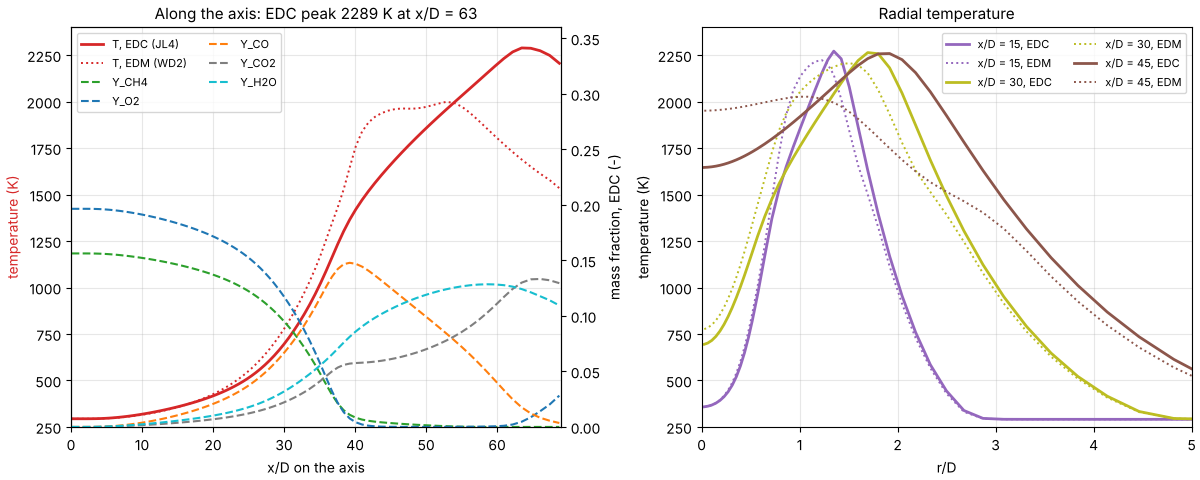
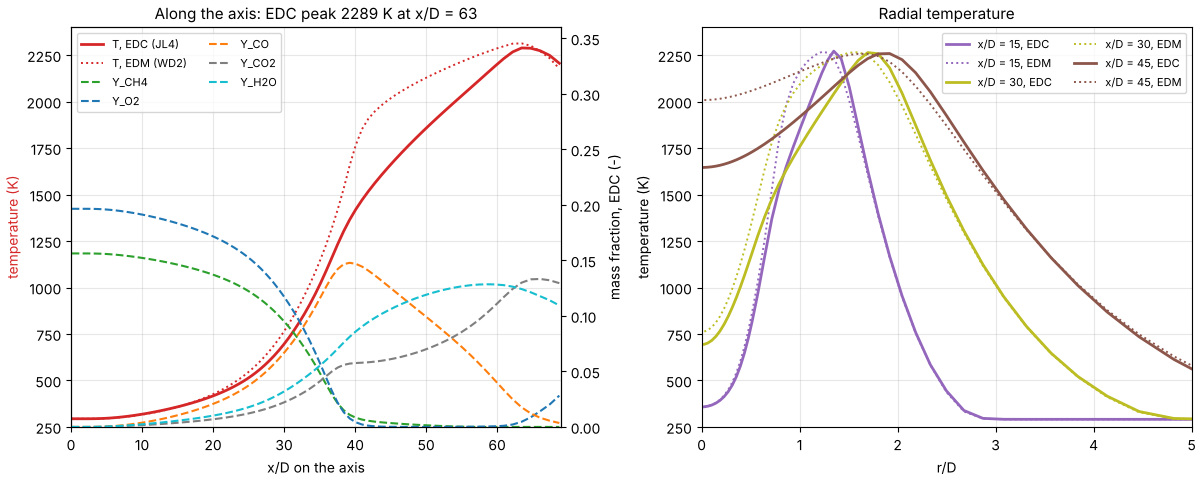
SF3: EDM caps a reaction and its exact reverse as a pair; EDM case relaxation 0.2, docs and images
Claude-Session: https://claude.ai/code/session_012imjwnMqtcjVo2xP9ySuwA

diff --git a/crates/foehncraft-flow/src/chemistry/edc.rs b/crates/foehncraft-flow/src/chemistry/edc.rs
@@ -53,7 +53,13 @@
 //! A = 4, B = 0.5. With `kinetic_limit` the rate is the smaller of q_mix,j
 //! and the rate of the mechanism q_kin,j (the kinetics hold the reactions
 //! back where the gas is cold, as at the nozzle); without it, a reaction
-//! runs wherever its reactants and products meet.
+//! runs wherever its reactants and products meet. A reaction and its exact
+//! reverse (the CO oxidation and the CO₂ dissociation of Westbrook & Dryer)
+//! are taken as a pair: the mixing rate caps their net kinetic rate in its
+//! direction. Limiting each of the two alone lets a fast dissociation undo
+//! a mixing-limited oxidation, and a jet flame then kept CO at the level of
+//! CO₂ and released heat with the wrong sign where its hot pilot gas met
+//! slow mixing.
 
 use super::mechanism::bad;
 use anyhow::Result;
@@ -284,43 +290,105 @@ pub fn edm_rates(
     if !(eps_over_k > 0.0) || !(t > 0.0) {
         return;
     }
-    for (j, r) in prog.reactions.iter().enumerate() {
-        let terms = &prog.terms[r.terms[0] as usize..r.terms[1] as usize];
-        // the mixing rate: reactants, then the product term
+    let nr = prog.reactions.len();
+    let terms_of = |j: usize| {
+        let r = &prog.reactions[j];
+        &prog.terms[r.terms[0] as usize..r.terms[1] as usize]
+    };
+    // the mixing rate of reaction j in its own direction (reactants, then
+    // the product term), or with `back` in the opposite one
+    let mixing = |j: usize, back: bool| {
         let mut lim = f64::INFINITY;
         let (mut yp, mut wp) = (0.0, 0.0);
-        for s in terms {
+        for s in terms_of(j) {
             let k = s.species as usize;
-            if s.reactant > 0.0 {
-                lim = lim.min(c[k].max(0.0) / s.reactant);
+            let (nr_, np_) = if back {
+                (s.product, s.reactant)
+            } else {
+                (s.reactant, s.product)
+            };
+            if nr_ > 0.0 {
+                lim = lim.min(c[k].max(0.0) / nr_);
             }
-            if s.product > 0.0 {
+            if np_ > 0.0 {
                 yp += y[k].max(0.0);
-                wp += s.product * prog.species[k].molar_mass;
+                wp += np_ * prog.species[k].molar_mass;
             }
         }
         if wp > 0.0 {
             lim = lim.min(e.b * rho * yp / wp);
         }
-        if !lim.is_finite() {
-            continue;
+        if lim.is_finite() {
+            e.a * eps_over_k * lim
+        } else {
+            0.0
         }
-        let mut q = e.a * eps_over_k * lim;
-        if e.kinetic_limit {
-            // the reaction alone: its production rates, divided by the net
-            // coefficient of one of its species
-            let one = kc::Program {
-                reactions: &prog.reactions[j..j + 1],
-                ..*prog
-            };
-            kc::rates(&one, t, c, w1, None, None, rw);
-            let kin = terms
-                .iter()
-                .find(|s| s.product != s.reactant)
-                .map_or(0.0, |s| w1[s.species as usize] / (s.product - s.reactant));
-            q = q.min(kin.max(0.0));
-        }
-        for s in terms {
+    };
+    // the rate of the mechanism of reaction j alone (mol/(m³ s)): its
+    // production rates, divided by the net coefficient of one of its species
+    let mut kinetic = |j: usize| {
+        let one = kc::Program {
+            reactions: &prog.reactions[j..j + 1],
+            ..*prog
+        };
+        kc::rates(&one, t, c, w1, None, None, rw);
+        terms_of(j)
+            .iter()
+            .find(|s| s.product != s.reactant)
+            .map_or(0.0, |s| w1[s.species as usize] / (s.product - s.reactant))
+            .max(0.0)
+    };
+    // a reaction and its exact reverse (the CO₂ dissociation of
+    // Westbrook & Dryer) form a pair: with the kinetic limit the mixing
+    // rate caps their net rate, in the direction of the kinetics, so that
+    // the pair keeps the equilibrium of its kinetics where mixing is fast
+    // and a mixing-limited forward step is not undone by an unlimited
+    // reverse one
+    let reverse_of = |j: usize| {
+        (0..nr).find(|&i| {
+            i != j && {
+                let (a, b) = (terms_of(j), terms_of(i));
+                let net = |t: &[kc::Term]| -> Vec<(u32, f64, f64)> {
+                    let mut v: Vec<(u32, f64, f64)> = t
+                        .iter()
+                        .filter(|s| s.reactant != 0.0 || s.product != 0.0)
+                        .map(|s| (s.species, s.reactant, s.product))
+                        .collect();
+                    v.sort_by_key(|x| x.0);
+                    v
+                };
+                let (na, nb) = (net(a), net(b));
+                na.len() == nb.len()
+                    && na
+                        .iter()
+                        .zip(&nb)
+                        .all(|(x, z)| x.0 == z.0 && x.1 == z.2 && x.2 == z.1)
+            }
+        })
+    };
+    for j in 0..nr {
+        let pair = if e.kinetic_limit { reverse_of(j) } else { None };
+        let q = match pair {
+            // the pair is done with its first reaction
+            Some(i) if i < j => continue,
+            Some(i) => {
+                let net = kinetic(j) - kinetic(i);
+                if net >= 0.0 {
+                    net.min(mixing(j, false))
+                } else {
+                    -(-net).min(mixing(j, true))
+                }
+            }
+            None => {
+                let q = mixing(j, false);
+                if e.kinetic_limit {
+                    q.min(kinetic(j))
+                } else {
+                    q
+                }
+            }
+        };
+        for s in terms_of(j) {
             wdot[s.species as usize] += (s.product - s.reactant) * q;
         }
     }
@@ -365,8 +433,8 @@ mod tests {
 
     /// The eddy dissipation model of the two-step mechanism: the fuel
     /// step is limited by the scarcer of fuel and oxygen, the products
-    /// hold it back where there are none, and every rate conserves the
-    /// elements and the mass.
+    /// hold it back where there are none, the CO/CO₂ pair is capped by
+    /// mixing as a pair, and every rate conserves the mass.
     #[test]
     fn edm_rates_are_mixing_limited_and_conserve_mass() {
         let m = Mechanism::load("westbrook-dryer-2", None).unwrap();
@@ -420,6 +488,23 @@ mod tests {
         let kin = EdmSection::default();
         edm_rates(&prog, &kin, p, 300.0, &y, 50.0, &mut w, &mut work);
         assert!(-w[ix("CH4")] < 1e-12 * q1);
+        // the CO oxidation and the CO₂ dissociation are a pair: in burnt
+        // gas without CO and with slow mixing the net dissociation is held
+        // to the mixing rate of CO₂ towards CO and O₂ (its products, O₂,
+        // are there), not to its Arrhenius rate alone
+        let mut burnt = vec![0.0; n];
+        burnt[ix("O2")] = 0.05;
+        burnt[ix("CO2")] = 0.12;
+        burnt[ix("H2O")] = 0.10;
+        burnt[ix("N2")] = 1.0 - 0.27;
+        let slow = 1.0;
+        edm_rates(&prog, &kin, p, 2000.0, &burnt, slow, &mut w, &mut work);
+        let (rho_b, _) = kc::concentrations(prog.species, p, 2000.0, &burnt, &mut c);
+        let wo2 = prog.species[ix("O2")].molar_mass;
+        let cap = 4.0 * slow * c[ix("CO2")].min(0.5 * rho_b * burnt[ix("O2")] / (wco + 0.5 * wo2));
+        assert!(w[ix("CO")] > 0.0 && w[ix("CO")] <= cap * (1.0 + 1e-12));
+        let mass: f64 = (0..n).map(|k| prog.species[k].molar_mass * w[k]).sum();
+        assert!(mass.abs() < 1e-12 * cap * wco);
         // reversible reactions are refused
         let jl = Mechanism::load("jones-lindstedt-4", None).unwrap();
         assert!(kin.check(&jl.program(), "jones-lindstedt-4").is_err());

diff --git a/docs/requirements.md b/docs/requirements.md
@@ -366,7 +366,7 @@ Multi-physics topics (maintainer's order of 2026-11-16, `multiphysics-architectu
 | ID | Feature | Notes |
 |----|---------|-------|
 | L1 | Energy equation and conjugate heat transfer | Multi-region meshes (fluid and solid) must not be blocked by the mesh data structure. Fluid and solid regions share one temperature equation on one equation domain (D112), so conjugate heat transfer is one matrix, exactly conservative, not two coupled solvers. Electric conduction and Joule heating (L27) come with it *2026-11-17 (O18):* specified as stage 7 of milestone 1 with buoyancy and low-Mach variable density, D150–D164 ([stage 7 page](requirements/stage7-energy-buoyancy-cht.md)); L27 then follows right after milestone 1 |
-| L2 | Species transport and reacting flows | Low-Mach variable density (D17) and stiff chemistry integration. **Species transport implemented 2026-11-24 (steam furnace stage SF1, #278):** `[species]` with the GRI-Mech 3.0 species, N − 1 mass fractions on the scalar equation with the closure species, Schmidt or Lewis diffusion, density from the mixture's molar mass (D151), mixture c_p, λ, μ from NASA-7 and kinetic theory, species and element accounts in the ledger (D119). **Gas-phase chemistry implemented 2026-11-25 (SF2a, #289):** mechanisms, the stiff 0D constant-pressure reactor and the chemical equilibrium (`foehn chemistry reactor`, `foehn chemistry equilibrium`, D120). **Chemistry in the cells of a transient laminar flow implemented 2026-11-25 (SF2b, #298).** **Turbulent flames implemented 2026-11-28 (SF3, #351), D349:** `[chemistry] interaction` = `laminar` (default), `edc` or `edm`. The eddy dissipation concept (Magnussen 2005: γ* = γ_λ², C_γ 2.1377, C_τ 0.4083; `version = "1981"`: γ_λ³; γ* held at `max_fine_fraction` 0.75) integrates the fine structures of each cell over its own τ* with the SF2 kernel (a per-cell interval of the kernel and its PTX entry); the eddy dissipation model (Magnussen & Hjertager 1977, A 4, B 0.5, Arrhenius cap) needs reactions in one direction. Transient: the exact increment (1 − e^(−κΔt))(Y* − Y), element-conserving. Steady: rates renewed every `update_every` iterations, the rate at the current state and its slope relaxed, sinks on the diagonal, the heat release linear in the species and taken at each energy refresh (a held heat ran away above 4000 K). CHM004 counts failed fine-structure cells (they keep their last rates). Not yet: partially stirred reactor and local constants (Parente 2016), flamelet tables, the bluff-body flame, the comparison with the TNF data, ranks |
+| L2 | Species transport and reacting flows | Low-Mach variable density (D17) and stiff chemistry integration. **Species transport implemented 2026-11-24 (steam furnace stage SF1, #278):** `[species]` with the GRI-Mech 3.0 species, N − 1 mass fractions on the scalar equation with the closure species, Schmidt or Lewis diffusion, density from the mixture's molar mass (D151), mixture c_p, λ, μ from NASA-7 and kinetic theory, species and element accounts in the ledger (D119). **Gas-phase chemistry implemented 2026-11-25 (SF2a, #289):** mechanisms, the stiff 0D constant-pressure reactor and the chemical equilibrium (`foehn chemistry reactor`, `foehn chemistry equilibrium`, D120). **Chemistry in the cells of a transient laminar flow implemented 2026-11-25 (SF2b, #298).** **Turbulent flames implemented 2026-11-28 (SF3, #351), D349:** `[chemistry] interaction` = `laminar` (default), `edc` or `edm`. The eddy dissipation concept (Magnussen 2005: γ* = γ_λ², C_γ 2.1377, C_τ 0.4083; `version = "1981"`: γ_λ³; γ* held at `max_fine_fraction` 0.75) integrates the fine structures of each cell over its own τ* with the SF2 kernel (a per-cell interval of the kernel and its PTX entry); the eddy dissipation model (Magnussen & Hjertager 1977, A 4, B 0.5, Arrhenius cap) needs reactions in one direction, and a reaction with its exact reverse is capped by mixing as a pair (net rate). Transient: the exact increment (1 − e^(−κΔt))(Y* − Y), element-conserving. Steady: rates renewed every `update_every` iterations, the rate at the current state and its slope relaxed, sinks on the diagonal, the heat release linear in the species and taken at each energy refresh (a held heat ran away above 4000 K). CHM004 counts failed fine-structure cells (they keep their last rates). Not yet: partially stirred reactor and local constants (Parente 2016), flamelet tables, the bluff-body flame, the comparison with the TNF data, ranks |
 | L3 | Multiphase: VOF and Euler–Euler | Both required. **1D water and steam tube circuits implemented 2026-11-25 (steam furnace stage SF7b, D282 (a), #312):** crate `foehncraft-circuits`, tubes, headers and drums with natural circulation, Friedel and homogeneous friction, drift-flux void, Gnielinski, Chen and Gungor–Winterton, Saha–Zuber with the Levy profile, Bowring CHF and a look-up table reader; the 3D two-fluid and VOF parts of L3 are open **Stage MP1 implemented 2026-11-25 (#317, D293):** isothermal VOF with THINC, CICSAM and upwind, balanced gravity and surface tension, in the shared device kernels; checked by Zalesak's disk, Martin & Moyce's dam break and a static drop. MP2 (energy and phase change, SF14), MP3 (two-fluid core) and MP4 (wall boiling, SF10) follow (steam furnace plan) |
 | L4 | Moving meshes | Moving reference frames (D55) and conformal rotating meshes (D56) are in milestone 1. Sliding meshes in both variants, conformal stepping and non-conformal by imprinting, come with the moving reference frame in stage 6 (D182, 2026-11-19). Later: mixing planes, mesh morphing with the geometric conservation law, overset meshes, rigid-body (6-DOF) motion |
 | L5 | Scale-resolving turbulence: LES, DES | Needs low-dissipation convection schemes and second-order time integration. *2026-11-17 (step 21):* LES is detailed in L39 (numerics), L40 (SGS models), L41 (wall-modelled LES), L42 (synthetic inlet) and L43 (statistics, campaign tier); the hybrid route is SST-based DES (delayed and improved delayed DES) with the blending field of D174; PANS is dropped (X2) |

diff --git a/docs/gallery/species.md b/docs/gallery/species.md
@@ -291,7 +291,7 @@ fuel core, closes over the cold core near x/D 40 and peaks at **2289 K on the
 axis at x/D 63**; CO reaches 15 % by mass in the rich core, where the fine
 structures turn methane into CO and H₂ faster than the oxygen can follow.
 
-<img src="../figures/gallery/jet_flame_edc_profiles.png" alt="Left: along the axis the temperature of the eddy dissipation concept rises slowly from 294 K to 700 K at x/D 30, steeply to 1500 K at x/D 40 and on to its peak of 2289 K at x/D 63; the dotted curve of the eddy dissipation model rises earlier and peaks at about 2000 K at x/D 53. Methane and oxygen fall to zero between x/D 30 and 40, CO peaks at 0.15 at x/D 39, water and CO2 rise behind it. Right: radial temperature at x/D 15, 30 and 45; the concept peaks at 2272, 2264 and 2259 K at r/D 1.35, 1.7 and 1.9, the model at 2223, 2207 and 2027 K slightly closer to the axis." width="1200" height="480">
+<img src="../figures/gallery/jet_flame_edc_profiles.png" alt="Left: along the axis the temperature of the eddy dissipation concept rises slowly from 294 K to 700 K at x/D 30, steeply to 1500 K at x/D 40 and on to its peak of 2289 K at x/D 63; the dotted curve of the eddy dissipation model rises earlier, from x/D 33, and peaks at 2313 K at x/D 63. Methane and oxygen fall to zero between x/D 30 and 40, CO peaks at 0.15 at x/D 39, water and CO2 rise behind it. Right: radial temperature at x/D 15, 30 and 45; the concept peaks at 2272, 2264 and 2259 K at r/D 1.35, 1.7 and 1.9, the model at 2268, 2266 and 2257 K slightly closer to the axis, and at x/D 45 it is 2000 K on the axis against 1650 K." width="1200" height="480">
 
 **Against the measurements.** The temperature of the reaction zone is the
 known weakness of the standard concept in this flame: with the same
@@ -308,10 +308,16 @@ validation, and the bands of the comparison are a gap. The
 `jet_flame_edm_wd2.toml` case burns the same flame with the eddy
 dissipation model and the two-step mechanism of Westbrook & Dryer
 (1981): each reaction at the mixing rate A ε/k (A = 4, B = 0.5, Magnussen
-& Hjertager 1977), capped by its Arrhenius rate. It peaks at 1999 K on
-the axis at x/D 53 and 2223 K in the shear layer at x/D 15, and its heat
-release in the domain is 81 % of the lower heating value of the fuel
-that flows in, against 95 % with the concept.
+& Hjertager 1977), capped by its Arrhenius rate; the CO oxidation and
+the CO₂ dissociation of that mechanism are a pair whose net rate the
+mixing caps. It peaks at 2313 K on the axis at x/D 63 and 2268 K in the
+shear layer at x/D 15: above the equilibrium flame temperature, because
+two global steps that end in CO₂ and water do not dissociate. Its heat
+release in the domain is 94 % of the lower heating value of the fuel
+that flows in, as with the concept (95 %). Limiting the two steps of the
+pair each on its own let the fast dissociation undo the mixing-limited
+oxidation: the first run kept 11 % CO in the flame, and a transient
+start released heat with the wrong sign.
 
 **How it is built.** `interaction = "edc"` adds the fine structures to
 the cell body of SF2b: the integrator takes a residence time per cell
@@ -334,10 +340,17 @@ and gave negative heat release in 14 % of the flame while it formed.
 pilot). The elements close to 3·10⁻⁵ of their inflow. The concept runs
 1500 iterations in about 15 minutes on 4 cores; its residuals level at
 about 3·10⁻⁵ from iteration 1200, while the axis temperature and the
-heat release of iterations 1450, 1600, 1900 and 2500 (two runs) agree to
+heat release of iterations 1450, 1600, 1900 and 2500 (three runs) agree to
 1 K and 10⁻⁴, so the case stops at 1500 and does not require the
-residual tolerance. The eddy dissipation model converges to 10⁻⁶ in 1133
-iterations, 1.5 minutes.
+residual tolerance. The eddy dissipation model runs with `relaxation =
+0.2`; its residuals swing about 2·10⁻⁴ from iteration 1500 on, and the
+temperatures of iterations 2000 and 3000 agree to 3 K, the heat release
+to 2·10⁻³, so it stops at 2000 iterations (2.5 minutes). Transient runs of
+both, 30 steps of 2 µs on a coarser mesh, run and stay bounded; with
+Westbrook & Dryer the hot pilot gas first dissociates towards the
+balance of that mechanism's own kinetics (its 0D reactor from the pilot
+state at 1880 K loses 25 K in 1 ms), which shows as a negative heat
+release in the first steps.
 
 **What this version does not do.** No partially stirred reactor, no
 local constants of the concept (Parente et al. 2016) and no flamelet

diff --git a/changelog.d/351-edc-turbulent-flames.md b/changelog.d/351-edc-turbulent-flames.md
@@ -1,1 +1,1 @@
-- **Turbulent flames with the eddy dissipation concept and the eddy dissipation model (steam furnace stage SF3, D349).** `[chemistry] interaction = "edc"` gives every hot cell of a RANS flow its fine structures (γ* = (C_γ (ν ε/k²)^¼)², τ* = C_τ (ν/ε)^½, Magnussen 2005 constants 2.1377 and 0.4083; `edc.version = "1981"` takes γ_λ³) and burns them over τ* with the stiff integrator of SF2; the mean rate is ρ κ (Y* − Y), κ = γ*/(τ* (1 − γ*)), γ* held at `edc.max_fine_fraction` (0.75). `interaction = "edm"` is the eddy dissipation model of Magnussen & Hjertager (1977) as the fallback (A = 4, B = 0.5, capped by the Arrhenius rate; mechanisms whose reactions run one way). Steady and transient: transient steps take the exact increment (1 − e^(−κΔt))(Y* − Y), which conserves every element; steady runs renew the rates every `update_every` outer iterations, relax the rate at the current state with `relaxation`, put the sinks on the diagonal of the species rows and give the energy a heat release linear in the species, taken with the mass fractions of each energy refresh. The chemistry kernel and its GPU entry take a residence time per cell. New fields `heat_release_rate`, `fine_structure_fraction`, `fine_structure_time`; `chemistry.csv` gains the failed cells, the cells at the guard and the range of τ*; new warning CHM004 (fine-structure reactor failed in some cells); CHM003 now refuses a turbulence model without an interaction, an interaction without one, and steady laminar cases. New cases `jet_flame_edc_jl4.toml` and `jet_flame_edm_wd2.toml` (the piloted methane jet flame with the geometry and inlets of Sandia Flame D, Barlow & Frank 1998), plot `tools/plot/jet_flame_fields.py`; gallery and recipe 351.
+- **Turbulent flames with the eddy dissipation concept and the eddy dissipation model (steam furnace stage SF3, D349).** `[chemistry] interaction = "edc"` gives every hot cell of a RANS flow its fine structures (γ* = (C_γ (ν ε/k²)^¼)², τ* = C_τ (ν/ε)^½, Magnussen 2005 constants 2.1377 and 0.4083; `edc.version = "1981"` takes γ_λ³) and burns them over τ* with the stiff integrator of SF2; the mean rate is ρ κ (Y* − Y), κ = γ*/(τ* (1 − γ*)), γ* held at `edc.max_fine_fraction` (0.75). `interaction = "edm"` is the eddy dissipation model of Magnussen & Hjertager (1977) as the fallback (A = 4, B = 0.5, capped by the Arrhenius rate; mechanisms whose reactions run one way; a reaction and its exact reverse, such as the CO oxidation and CO₂ dissociation of Westbrook & Dryer, are capped by mixing as a pair). Steady and transient: transient steps take the exact increment (1 − e^(−κΔt))(Y* − Y), which conserves every element; steady runs renew the rates every `update_every` outer iterations, relax the rate at the current state with `relaxation`, put the sinks on the diagonal of the species rows and give the energy a heat release linear in the species, taken with the mass fractions of each energy refresh. The chemistry kernel and its GPU entry take a residence time per cell. New fields `heat_release_rate`, `fine_structure_fraction`, `fine_structure_time`; `chemistry.csv` gains the failed cells, the cells at the guard and the range of τ*; new warning CHM004 (fine-structure reactor failed in some cells); CHM003 now refuses a turbulence model without an interaction, an interaction without one, and steady laminar cases. New cases `jet_flame_edc_jl4.toml` and `jet_flame_edm_wd2.toml` (the piloted methane jet flame with the geometry and inlets of Sandia Flame D, Barlow & Frank 1998), plot `tools/plot/jet_flame_fields.py`; gallery and recipe 351.

diff --git a/docs/cases/flow.md b/docs/cases/flow.md
@@ -433,5 +433,5 @@ heat, in turbulent flows with the eddy dissipation concept or model (SF3)
 | `flow/flame_methane_air_gri30.toml` | generated hex 2D, 200 × 1 cells (50 µm) | a laminar premixed stoichiometric methane–air flame in a tube with GRI-Mech 3.0 (53 species, 325 reactions) and species Lewis numbers, 1200 steps of 5 µs: burning velocity 0.348 m/s from the fuel consumption, measured 0.360 ± 0.017 m/s; band [0.33, 0.39] m/s; about 10 minutes (CI set `long`) | [gallery 298](../gallery/species.md#reacting-flow-cells), [recipe 298](../recipes/species.md#reacting-flow-cells) |
 | `flow/flame_methane_air_jl4.toml` | generated hex 2D, 200 × 1 cells (50 µm) | the same flame with the 4-step global mechanism of Jones & Lindstedt, Lewis number 1, 2 ms: 0.430 m/s, peak 2250 K; band [0.38, 0.48] m/s; 18 s | [gallery 298](../gallery/species.md#reacting-flow-cells), [recipe 298](../recipes/species.md#reacting-flow-cells) |
 | `flow/jet_flame_edc_jl4.toml` | generated hex 2D wedge, 120 × 54 cells | a piloted turbulent methane jet flame with the geometry and inlets of Sandia Flame D (Re 22 400), steady RANS, k–ε with C_ε1 = 1.60, the eddy dissipation concept with Jones & Lindstedt: axis peak 2289 K at x/D 63, shear-layer peak 2272 K at x/D 15, 95 % of the fuel's heat released; residuals level at 3·10⁻⁵ (monitored quantities steady), 1500 iterations, about 15 minutes (CI set `long`, 300 iterations) | [gallery 351](../gallery/species.md#turbulent-flames), [recipe 351](../recipes/species.md#turbulent-flames) |
-| `flow/jet_flame_edm_wd2.toml` | generated hex 2D wedge, 120 × 54 cells | the same flame with the eddy dissipation model and the two-step mechanism of Westbrook & Dryer: axis peak 1999 K at x/D 53, converged in 1133 iterations, 1.5 minutes | [gallery 351](../gallery/species.md#turbulent-flames), [recipe 351](../recipes/species.md#turbulent-flames) |
+| `flow/jet_flame_edm_wd2.toml` | generated hex 2D wedge, 120 × 54 cells | the same flame with the eddy dissipation model and the two-step mechanism of Westbrook & Dryer (CO/CO₂ pair capped by mixing): axis peak 2313 K at x/D 63 (no dissociation), 94 % of the fuel's heat released; residuals swing about 2·10⁻⁴, temperatures steady to 3 K, 2000 iterations, 2.5 minutes | [gallery 351](../gallery/species.md#turbulent-flames), [recipe 351](../recipes/species.md#turbulent-flames) |
 | `flow/species_coaxial_jet.toml` | generated hex 2D wedge, 90 × 40 cells | a laminar methane jet (r = 5 mm, 1 m/s) in a coflow of air at 0.2 m/s, isothermal, density from the mixture's molar mass (0.65 to 1.17 kg/m³), mixture properties from kinetic theory; 154 iterations, element accounts closed to 6.4·10⁻⁹ | [gallery 278](../gallery/species.md#species-transport), [recipe 278](../recipes/species.md#species-transport) |

diff --git a/docs/cases/flow-keys.md b/docs/cases/flow-keys.md
@@ -577,7 +577,7 @@ steady or transient; a steady laminar case, a turbulence model without
 | `chemistry.edc.c_gamma`, `.c_tau` | the constants of γ_λ = C_γ (ν ε/k²)^¼ and τ* = C_τ (ν/ε)^½ (defaults 2.1377 and 0.4083) |
 | `chemistry.edc.max_fine_fraction` | the guard on γ* (default 0.75, below 1); cells held at it are counted in the log and `chemistry.csv` |
 | `chemistry.edm.a`, `.b` | the constants of the eddy dissipation model (defaults 4.0 and 0.5) |
-| `chemistry.edm.kinetic_limit` | cap every reaction at its Arrhenius rate (default true); the mechanism must have reactions in one direction only (CHM001 otherwise) |
+| `chemistry.edm.kinetic_limit` | cap every reaction at its Arrhenius rate (default true; a reaction and its exact reverse are then capped as a pair, their net rate by the mixing rate); the mechanism must have reactions in one direction only (CHM001 otherwise) |
 | `chemistry.update_every` | steady runs: renew the reaction sources every N outer iterations (default 1) |
 | `chemistry.relaxation` | steady runs: relax the rate and its implicit part between renewals, in (0, 1] (default 1) |
 
